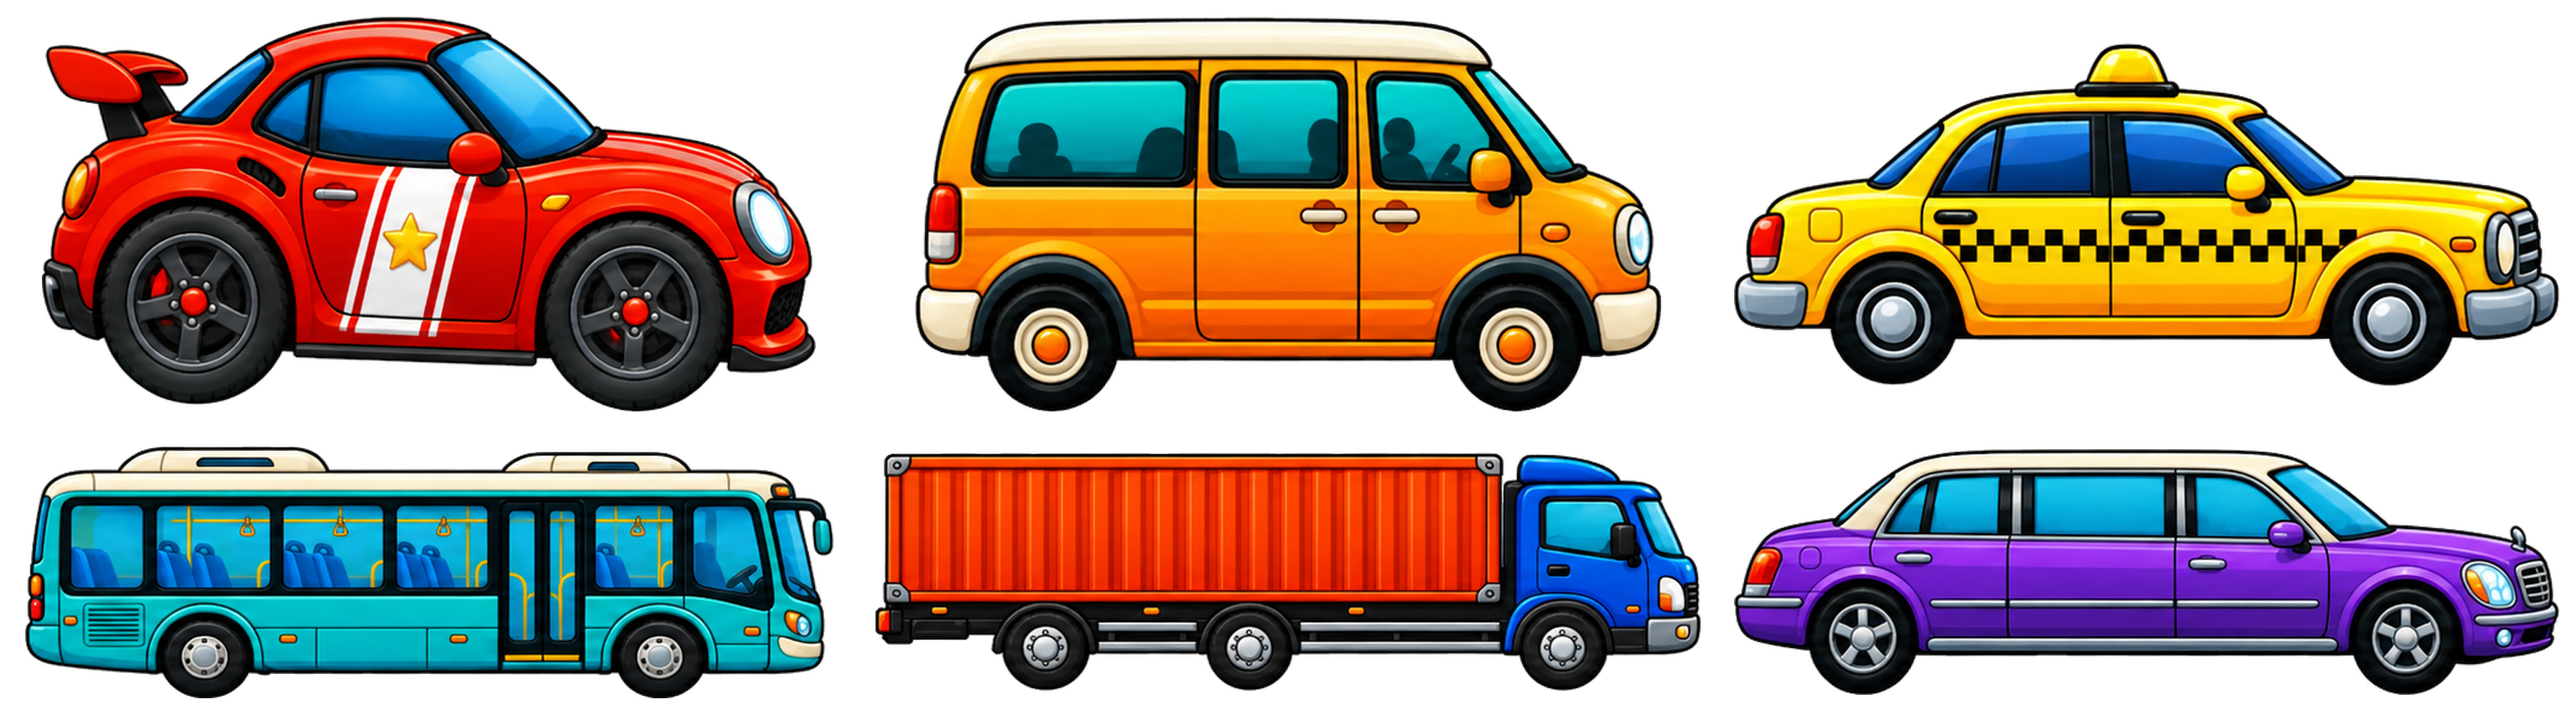
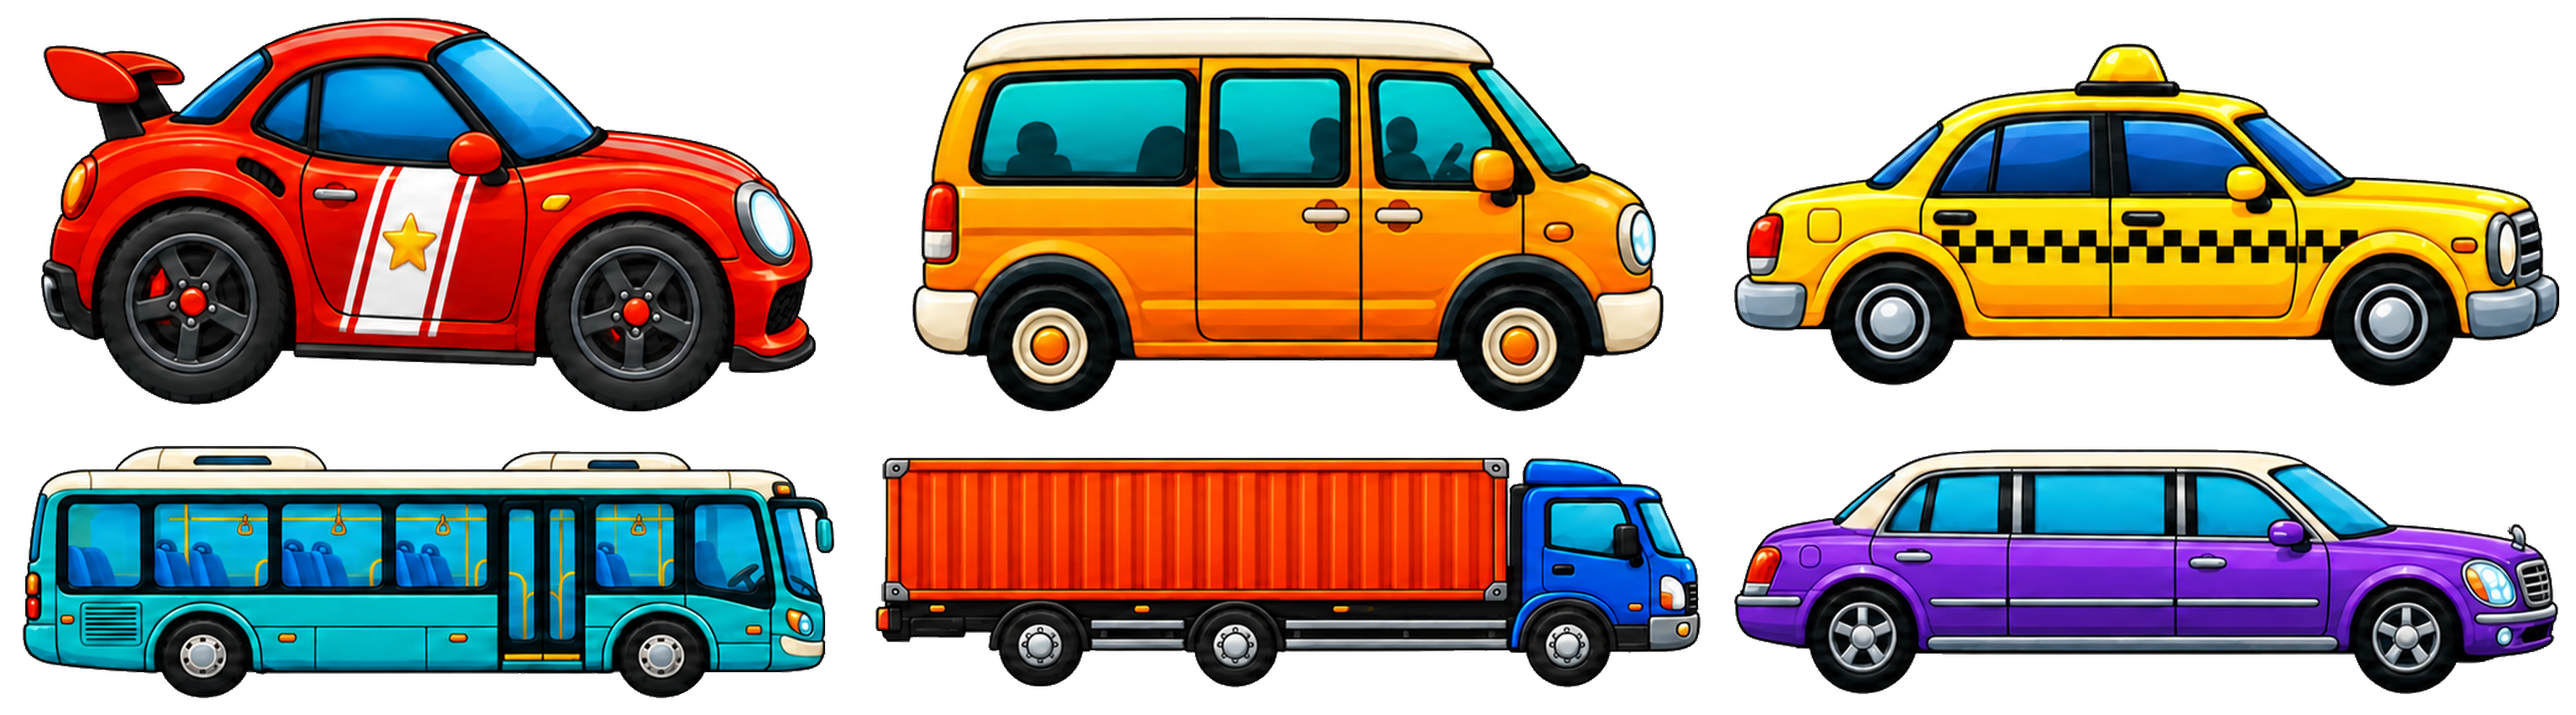
fix: remove traffic vehicle outline halos

diff --git a/src/pages/traffic-escape/vehicleAtlas.ts b/src/pages/traffic-escape/vehicleAtlas.ts
@@ -28,12 +28,12 @@ type TrafficVehicleAtlasSlotDefinition = TrafficVehicleAtlasSlot & {
 };
 
 const TRAFFIC_VEHICLE_ATLAS_SLOTS: Record<TrafficVehicleAppearance, TrafficVehicleAtlasSlotDefinition> = {
-  sport: { column: 0, row: "two-cell", x: 0, y: 0, width: 1024, height: 512, visibleBounds: { left: 50, top: 20, right: 973, bottom: 492 }, length: 2 },
-  "compact-van": { column: 1, row: "two-cell", x: 1024, y: 0, width: 1024, height: 512, visibleBounds: { left: 67, top: 20, right: 957, bottom: 492 }, length: 2 },
-  "city-taxi": { column: 2, row: "two-cell", x: 2048, y: 0, width: 1024, height: 512, visibleBounds: { left: 20, top: 52, right: 1004, bottom: 460 }, length: 2 },
-  "city-bus": { column: 0, row: "three-cell", x: 0, y: 512, width: 1024, height: 341, visibleBounds: { left: 30, top: 20, right: 994, bottom: 321 }, length: 3 },
-  "box-truck": { column: 1, row: "three-cell", x: 1024, y: 512, width: 1024, height: 341, visibleBounds: { left: 20, top: 28, right: 1004, bottom: 312 }, length: 3 },
-  "stretch-sedan": { column: 2, row: "three-cell", x: 2048, y: 512, width: 1024, height: 341, visibleBounds: { left: 20, top: 24, right: 1004, bottom: 317 }, length: 3 },
+  sport: { column: 0, row: "two-cell", x: 0, y: 0, width: 1024, height: 512, visibleBounds: { left: 49, top: 20, right: 974, bottom: 492 }, length: 2 },
+  "compact-van": { column: 1, row: "two-cell", x: 1024, y: 0, width: 1024, height: 512, visibleBounds: { left: 63, top: 20, right: 961, bottom: 492 }, length: 2 },
+  "city-taxi": { column: 2, row: "two-cell", x: 2048, y: 0, width: 1024, height: 512, visibleBounds: { left: 20, top: 51, right: 1004, bottom: 461 }, length: 2 },
+  "city-bus": { column: 0, row: "three-cell", x: 0, y: 512, width: 1024, height: 341, visibleBounds: { left: 27, top: 20, right: 996, bottom: 321 }, length: 3 },
+  "box-truck": { column: 1, row: "three-cell", x: 1024, y: 512, width: 1024, height: 341, visibleBounds: { left: 20, top: 33, right: 1004, bottom: 308 }, length: 3 },
+  "stretch-sedan": { column: 2, row: "three-cell", x: 2048, y: 512, width: 1024, height: 341, visibleBounds: { left: 20, top: 24, right: 1004, bottom: 316 }, length: 3 },
 };
 
 export function getTrafficVehicleAtlasSlot(

diff --git a/tests/unit/trafficVehicleAtlas.test.ts b/tests/unit/trafficVehicleAtlas.test.ts
@@ -7,12 +7,12 @@ import {
 
 describe("getTrafficVehicleAtlasSlot", () => {
   test.each([
-    ["sport", 2, { column: 0, row: "two-cell", x: 0, y: 0, width: 1024, height: 512, visibleBounds: { left: 50, top: 20, right: 973, bottom: 492 } }],
-    ["compact-van", 2, { column: 1, row: "two-cell", x: 1024, y: 0, width: 1024, height: 512, visibleBounds: { left: 67, top: 20, right: 957, bottom: 492 } }],
-    ["city-taxi", 2, { column: 2, row: "two-cell", x: 2048, y: 0, width: 1024, height: 512, visibleBounds: { left: 20, top: 52, right: 1004, bottom: 460 } }],
-    ["city-bus", 3, { column: 0, row: "three-cell", x: 0, y: 512, width: 1024, height: 341, visibleBounds: { left: 30, top: 20, right: 994, bottom: 321 } }],
-    ["box-truck", 3, { column: 1, row: "three-cell", x: 1024, y: 512, width: 1024, height: 341, visibleBounds: { left: 20, top: 28, right: 1004, bottom: 312 } }],
-    ["stretch-sedan", 3, { column: 2, row: "three-cell", x: 2048, y: 512, width: 1024, height: 341, visibleBounds: { left: 20, top: 24, right: 1004, bottom: 317 } }],
+    ["sport", 2, { column: 0, row: "two-cell", x: 0, y: 0, width: 1024, height: 512, visibleBounds: { left: 49, top: 20, right: 974, bottom: 492 } }],
+    ["compact-van", 2, { column: 1, row: "two-cell", x: 1024, y: 0, width: 1024, height: 512, visibleBounds: { left: 63, top: 20, right: 961, bottom: 492 } }],
+    ["city-taxi", 2, { column: 2, row: "two-cell", x: 2048, y: 0, width: 1024, height: 512, visibleBounds: { left: 20, top: 51, right: 1004, bottom: 461 } }],
+    ["city-bus", 3, { column: 0, row: "three-cell", x: 0, y: 512, width: 1024, height: 341, visibleBounds: { left: 27, top: 20, right: 996, bottom: 321 } }],
+    ["box-truck", 3, { column: 1, row: "three-cell", x: 1024, y: 512, width: 1024, height: 341, visibleBounds: { left: 20, top: 33, right: 1004, bottom: 308 } }],
+    ["stretch-sedan", 3, { column: 2, row: "three-cell", x: 2048, y: 512, width: 1024, height: 341, visibleBounds: { left: 20, top: 24, right: 1004, bottom: 316 } }],
   ] as const)("maps %s", (appearance, length, expected) => {
     expect(getTrafficVehicleAtlasSlot(appearance, length)).toEqual(expected);
   });

diff --git a/tests/unit/remoteAssets.test.ts b/tests/unit/remoteAssets.test.ts
@@ -23,7 +23,7 @@ const GECKO_IDLE_FILE_ID = "cloud://test-env.test-bucket/assets/v1/pets/gecko-id
 const TURTLE_CUDDLE_FILE_ID = "cloud://test-env.test-bucket/assets/v1/pets/turtle-cuddle.png";
 const BISCUIT_FILE_ID = "cloud://test-env.test-bucket/assets/v1/pets/food-biscuit.png";
 const TAP_AUDIO_FILE_ID = "cloud://test-env.test-bucket/assets/audio/v1/tap.m4a";
-const TRAFFIC_ATLAS_FILE_ID = "cloud://test-env.test-bucket/assets/games/traffic-escape/v4/vehicle-atlas.png";
+const TRAFFIC_ATLAS_FILE_ID = "cloud://test-env.test-bucket/assets/games/traffic-escape/v5/vehicle-atlas.png";
 const GENERATED_FOOD_IMAGE_IDS = [
   "biscuit",
   "salmon",

diff --git a/docs/superpowers/specs/2026-09-01-traffic-escape-vehicle-atlas-design.md b/docs/superpowers/specs/2026-09-01-traffic-escape-vehicle-atlas-design.md
@@ -9,7 +9,7 @@
 - 将现有六张透明 PNG 裁去四周多余透明像素，保留完整车身、轮胎和阴影。
 - 合成为一张透明 PNG：第一行是三辆两格车，每个图块为 `2:1`；第二行是三辆三格车，每个图块为 `3:1`。
 - 图集统一宽度为三个图块宽：两格行图块高为图块宽的一半，三格行图块高为图块宽的三分之一。页面以整张图宽的三倍显示，因此每个图块恰好映射为所属车辆的横向边界。
-- 图集保存为 `asset-backups/cloudbase-images/games/traffic-escape/vehicle-atlas.png`，当前版本为 `v4`，上传到 CloudBase 的 `assets/games/traffic-escape/v4/vehicle-atlas.png`；旧的六张单车资源不再由页面请求。
+- 图集保存为 `asset-backups/cloudbase-images/games/traffic-escape/vehicle-atlas.png`，当前版本为 `v5`，上传到 CloudBase 的 `assets/games/traffic-escape/v5/vehicle-atlas.png`；旧的六张单车资源不再由页面请求。
 
 ## 渲染规则
 
@@ -34,5 +34,5 @@
 
 - 图集以现有六种车辆为视觉参考，仅重新生成第二排中间三格卡车后合成；输出为透明 `3072 × 853` PNG，六个图块的 alpha 通道均非空，第二排中间车辆为自然约 `3:1` 比例且未做横向拉伸。其本地路径为 `asset-backups/cloudbase-images/games/traffic-escape/vehicle-atlas.png`。运行时仅保留并使用这一张图集，旧的独立车辆 PNG 已清理。
 - 已通过 `npm run assets:check`、`npm test -- --runInBand`（47 suites / 366 tests）、`npm run typecheck`、`npm run lint`、`npm run build:weapp`、`npm run secrets:check` 与 `git diff --check`。
-- 已执行 `npm run assets:upload -- games/traffic-escape/vehicle-atlas.png`，并以 `tcb storage list assets/games/traffic-escape/v4/` 确认 CloudBase 存在 `assets/games/traffic-escape/v4/vehicle-atlas.png`，最新大小为 2154.40 KB；旧的 v3 路径未被覆盖。
+- 已执行 `npm run assets:upload -- games/traffic-escape/vehicle-atlas.png`，并以 `tcb storage list assets/games/traffic-escape/v5/` 确认 CloudBase 存在 `assets/games/traffic-escape/v5/vehicle-atlas.png`，最新大小约 2146.90 KB；旧的 v4 路径未被覆盖。
 - 微信开发者工具已能读取项目首页，但自动化输入通道在进入车阵突围前连续返回无可用窗口，故本次未将模拟器中的横竖比例、选中态和远程加载画面记为已验证；需要在该输入通道恢复后补做一次实机/开发者工具检查。
